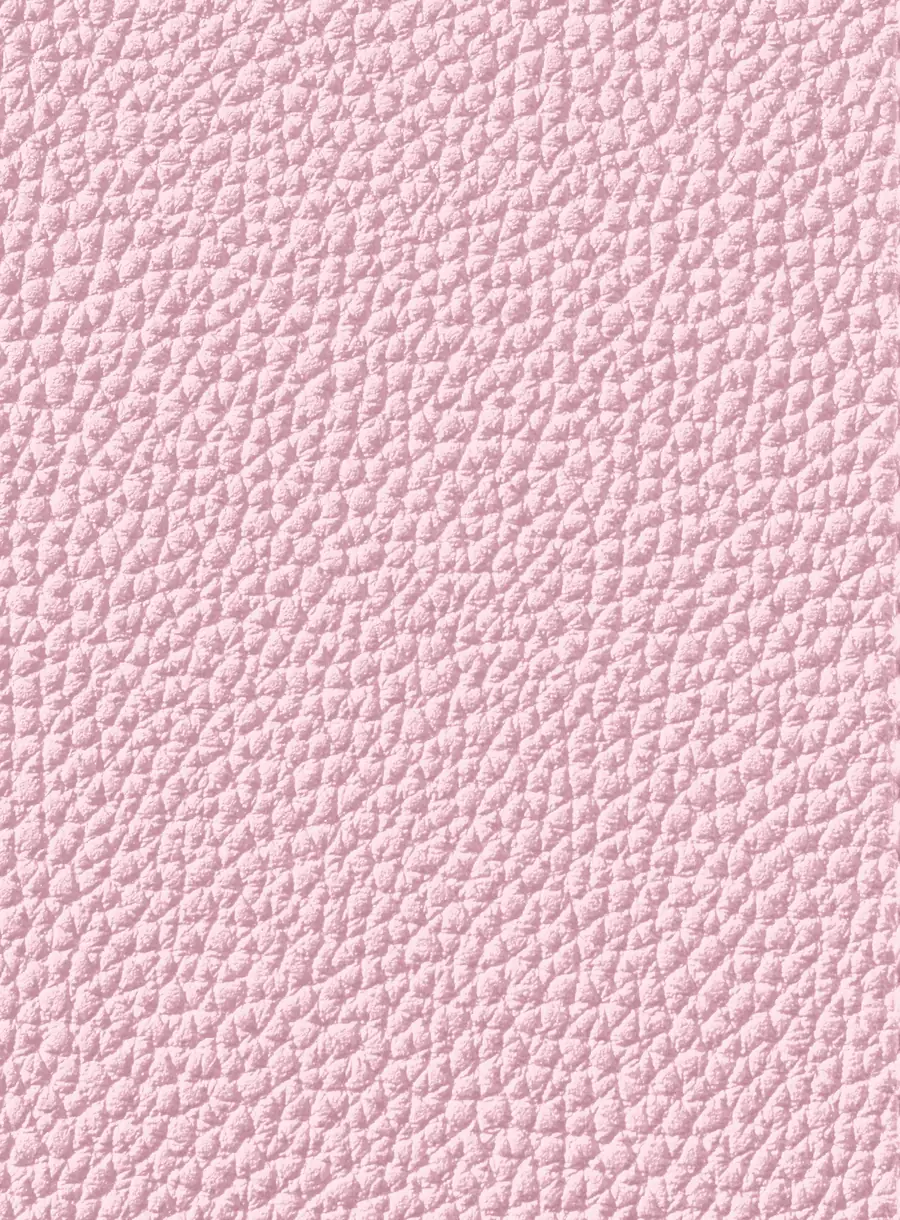
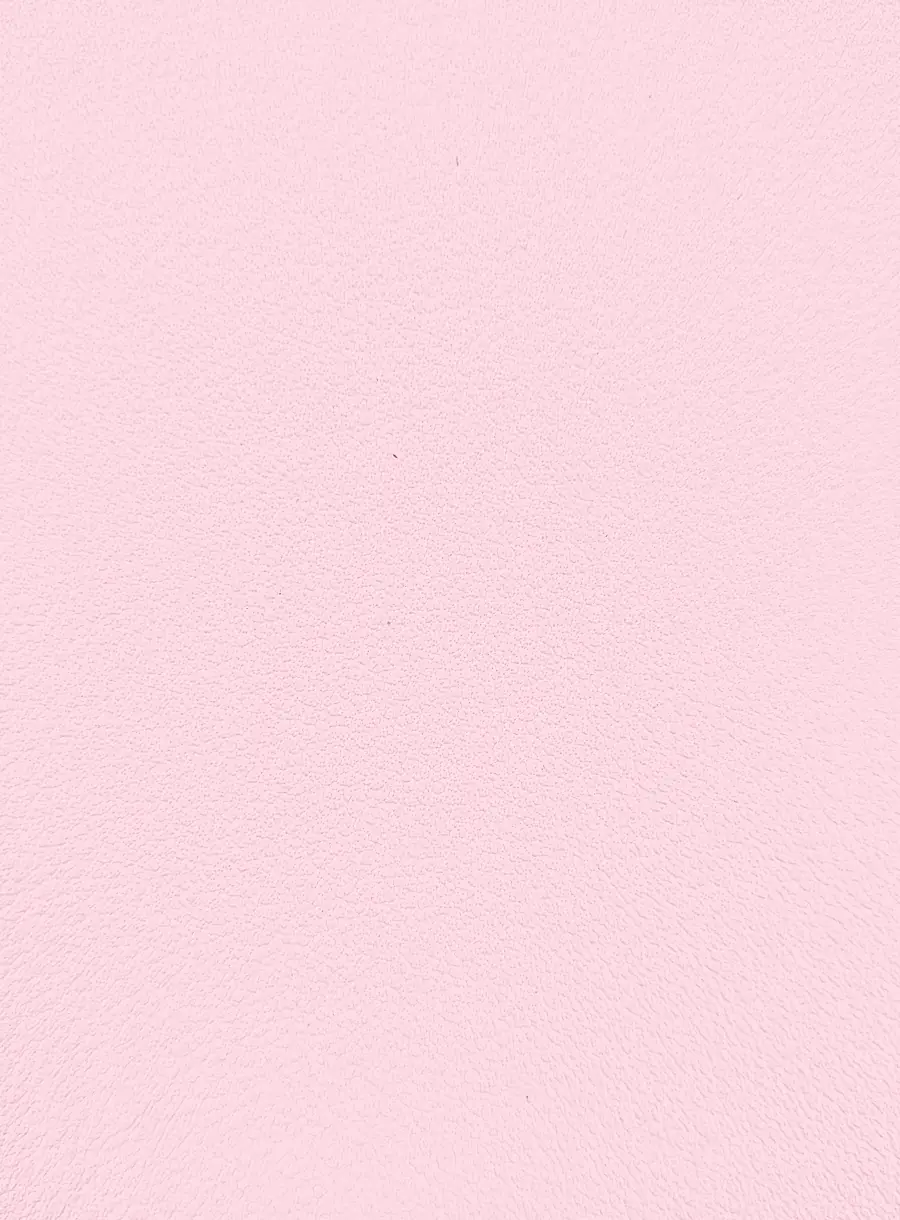
표지 가죽을 매끈하고 결 고운 가죽으로, 속지는 더 하얗게 · 모눈은 연하게
- 굵은 페블 가죽을 빼고 결 고운 밝은 가죽 사진으로 교체, 바늘땀은 실과 구멍만 남김
- 속지 바탕 #FDFCFA, 모눈 선 #E9E6E1

diff --git a/diary.css b/diary.css
@@ -17,7 +17,7 @@
 @font-face { font-family: "Pretendard"; font-weight: 700; src: url("fonts/Pretendard-Bold.woff2") format("woff2"); font-display: swap; }
 
 :root {
-  --paper: #fbf8f3; --grid: #dad6cf; --line: rgba(70, 60, 48, .3); --ink: #1c1a1f; --ink2: #57514a; --ink3: #8d867c; --blue: #7f9fe6;
+  --paper: #fdfcfa; --grid: #e9e6e1; --line: rgba(70, 60, 48, .3); --ink: #1c1a1f; --ink2: #57514a; --ink3: #8d867c; --blue: #7f9fe6;
   --pw: 550px; --ph: 745px; --bw: 1100px; --u: calc(var(--pw) / 100); --tl: 3px; --tr: 9px;
   --f-ui: "Pretendard", -apple-system, "Apple SD Gothic Neo", sans-serif; --f-num: "Play", "Didot", serif; --f-hand: "H-yaong", "H-on", cursive; --hs: 1;
   /* 손글씨 크기는 이 둘뿐이에요: 본문(목록·칸·일기·고민)과 큰 숫자(합계). 칸마다 따로 정하지 않아요 */
@@ -39,7 +39,7 @@ body.one .slot.L { display: none; }
 
 /* 종이 */
 .page { position: absolute; inset: 0; overflow: hidden; color: var(--ink); background-color: var(--paper);
-  /* 크림색 모눈종이: 바탕 #FBF8F3, 선 #DAD6CF 1px, 칸 20px. 종이결 무늬와 뒷장 비침은 글씨를 가려서 뺐어요 */
+  /* 모눈종이: 바탕 #FDFCFA(덜 누렇게), 선 #E9E6E1(연하게) 1px, 칸 20px. 종이결 무늬와 뒷장 비침은 글씨를 가려서 뺐어요 */
   background-image: linear-gradient(var(--grid) 1px, transparent 1px), linear-gradient(90deg, var(--grid) 1px, transparent 1px); background-size: 20px 20px; background-position: 9px 9px; border-radius: calc(var(--u) * 3.2); }
 body.two .page.sl { border-radius: calc(var(--u) * 3.6) 0 0 calc(var(--u) * 3.6); } body.two .page.sr { border-radius: 0 calc(var(--u) * 3.6) calc(var(--u) * 3.6) 0; }
 .page::before { content: ""; position: absolute; top: 0; bottom: 0; width: 15%; pointer-events: none; z-index: 12; }

diff --git a/index.html b/index.html
@@ -13,7 +13,7 @@
 <link rel="manifest" href="manifest.webmanifest">
 <link rel="apple-touch-icon" href="assets/icon-180.png">
 <link rel="icon" href="assets/icon-192.png">
-<link rel="stylesheet" href="diary.css?v=202611131031">
+<link rel="stylesheet" href="diary.css?v=202611131041">
 </head>
 <body class="one closed cv-in">
 <div id="app">
@@ -38,8 +38,8 @@
   <div id="toast"></div>
 </div>
 <input type="file" id="file" accept="image/*" hidden>
-<script src="config.js?v=202611131031"></script>
-<script src="stickers.js?v=202611131031"></script>
-<script src="diary.js?v=202611131031"></script>
+<script src="config.js?v=202611131041"></script>
+<script src="stickers.js?v=202611131041"></script>
+<script src="diary.js?v=202611131041"></script>
 </body>
 </html>

diff --git a/sw.js b/sw.js
@@ -1,5 +1,5 @@
 /* 다이어리 알림. 말랑대학 sw.js 와 같은 방식이에요. 화면 파일을 저장해 두지는 않아요 */
-const SW_V = '2026-11-13-3';   // 화면을 고치면 올려요 (새 서비스워커로 바뀌게). 저장해 둔 화면 파일이 있으면 지워요
+const SW_V = '2026-11-13-4';   // 화면을 고치면 올려요 (새 서비스워커로 바뀌게). 저장해 둔 화면 파일이 있으면 지워요
 self.addEventListener('activate', (e) => e.waitUntil(caches.keys().then((ks) => Promise.all(ks.map((k) => caches.delete(k))))));
 self.addEventListener('install', () => self.skipWaiting());
 self.addEventListener('activate', (e) => e.waitUntil(self.clients.claim()));

diff --git a/CREDITS.md b/CREDITS.md
@@ -34,5 +34,6 @@
 
 | 파일 | 사진 페이지 | 작가(@) | 가공 |
 | -- | -- | -- | -- |
-| leather.webp, stitch_h.webp, stitch_v.webp | https://unsplash.com/photos/brown-leather-with-stitching-creating-a-textural-look-5_GUH12XnNc | Olga Kovalski (kovalskihelga) | 갈색 가죽 사진의 결과 실 음영은 그대로 두고 색만 연베이비핑크로 바꿈. 바늘땀은 같은 사진의 솔기에서 구멍부터 구멍까지 잘라 이음 |
+| leather.webp | https://unsplash.com/photos/a-light-beige-textured-background-ZVNnceSdN9s | Compagnons (sigmund) | 밝은 베이지의 결 고운 매끈한 가죽 사진을 줄여 쓰고 색만 연베이비핑크로 옮김 |
+| stitch_h.webp, stitch_v.webp | https://unsplash.com/photos/brown-leather-with-stitching-creating-a-textural-look-5_GUH12XnNc | Olga Kovalski (kovalskihelga) | 가죽 솔기에서 실과 바늘구멍만 구멍부터 구멍까지 잘라 이음. 실은 표지보다 살짝 밝은 분홍으로 |
 | lace.webp | https://unsplash.com/photos/a-close-up-of-a-white-lace-on-a-black-background-hD2Fs7Aa504 | Divazus Fabric Store (divazus) | 검은 배경의 밝기를 투명도로 바꿔 물결 가장자리 띠만 잘라 씀. 사진 틀에서 잘린 술 끝은 짧게 다듬음 |
